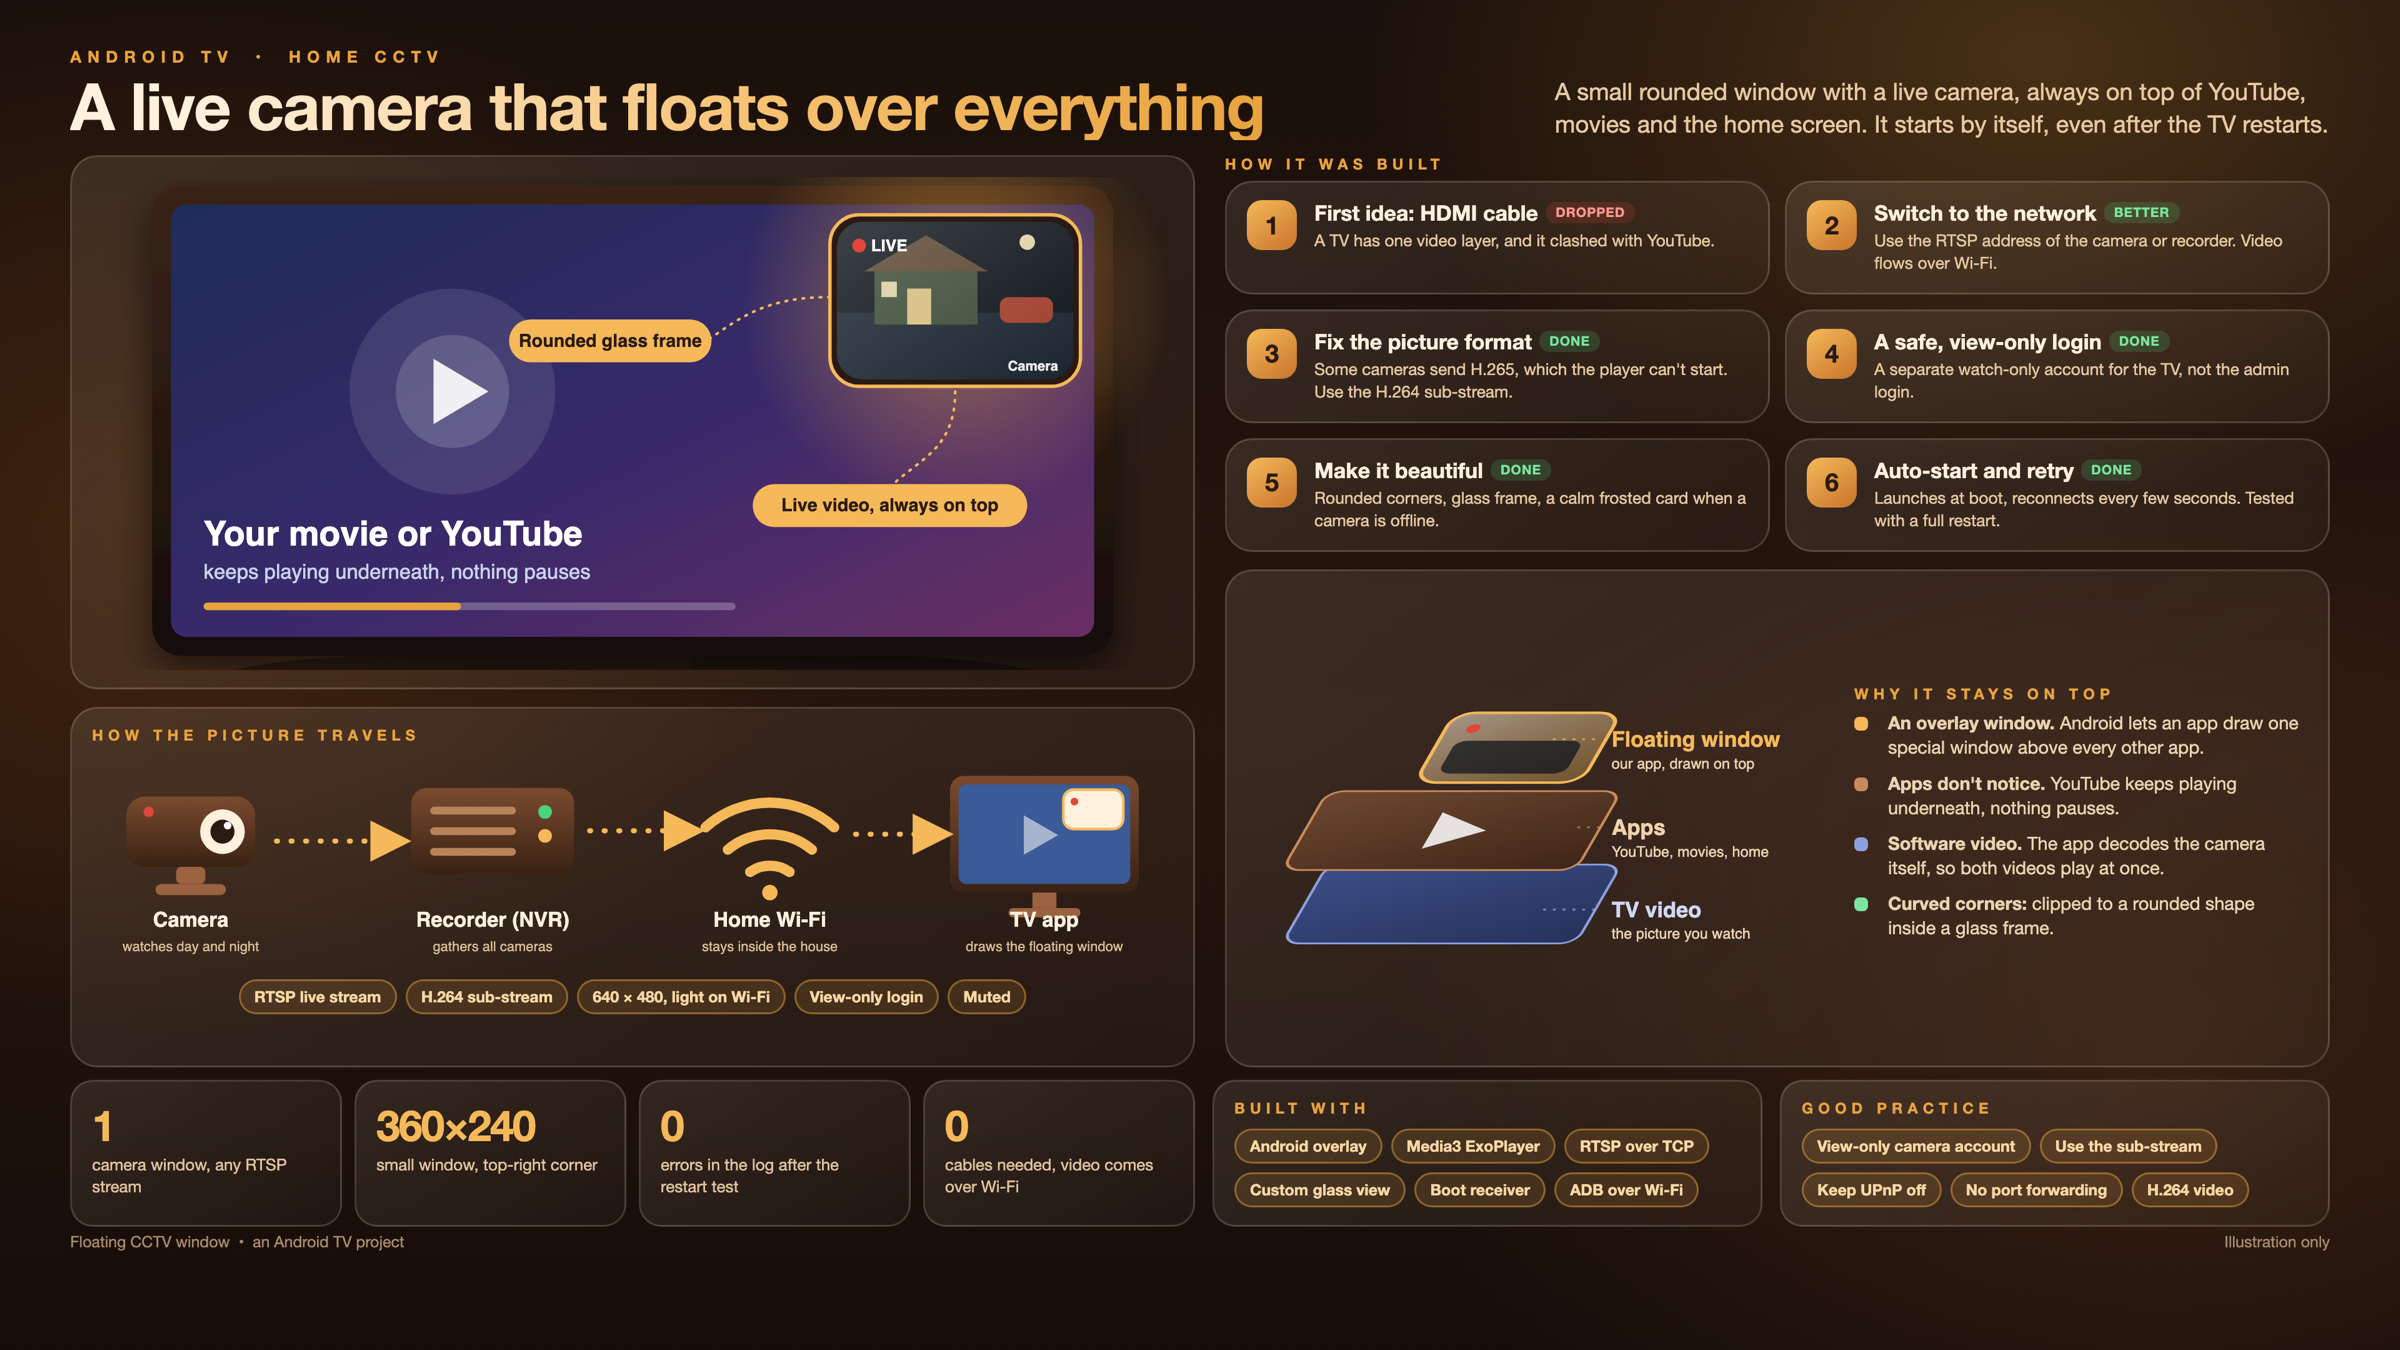
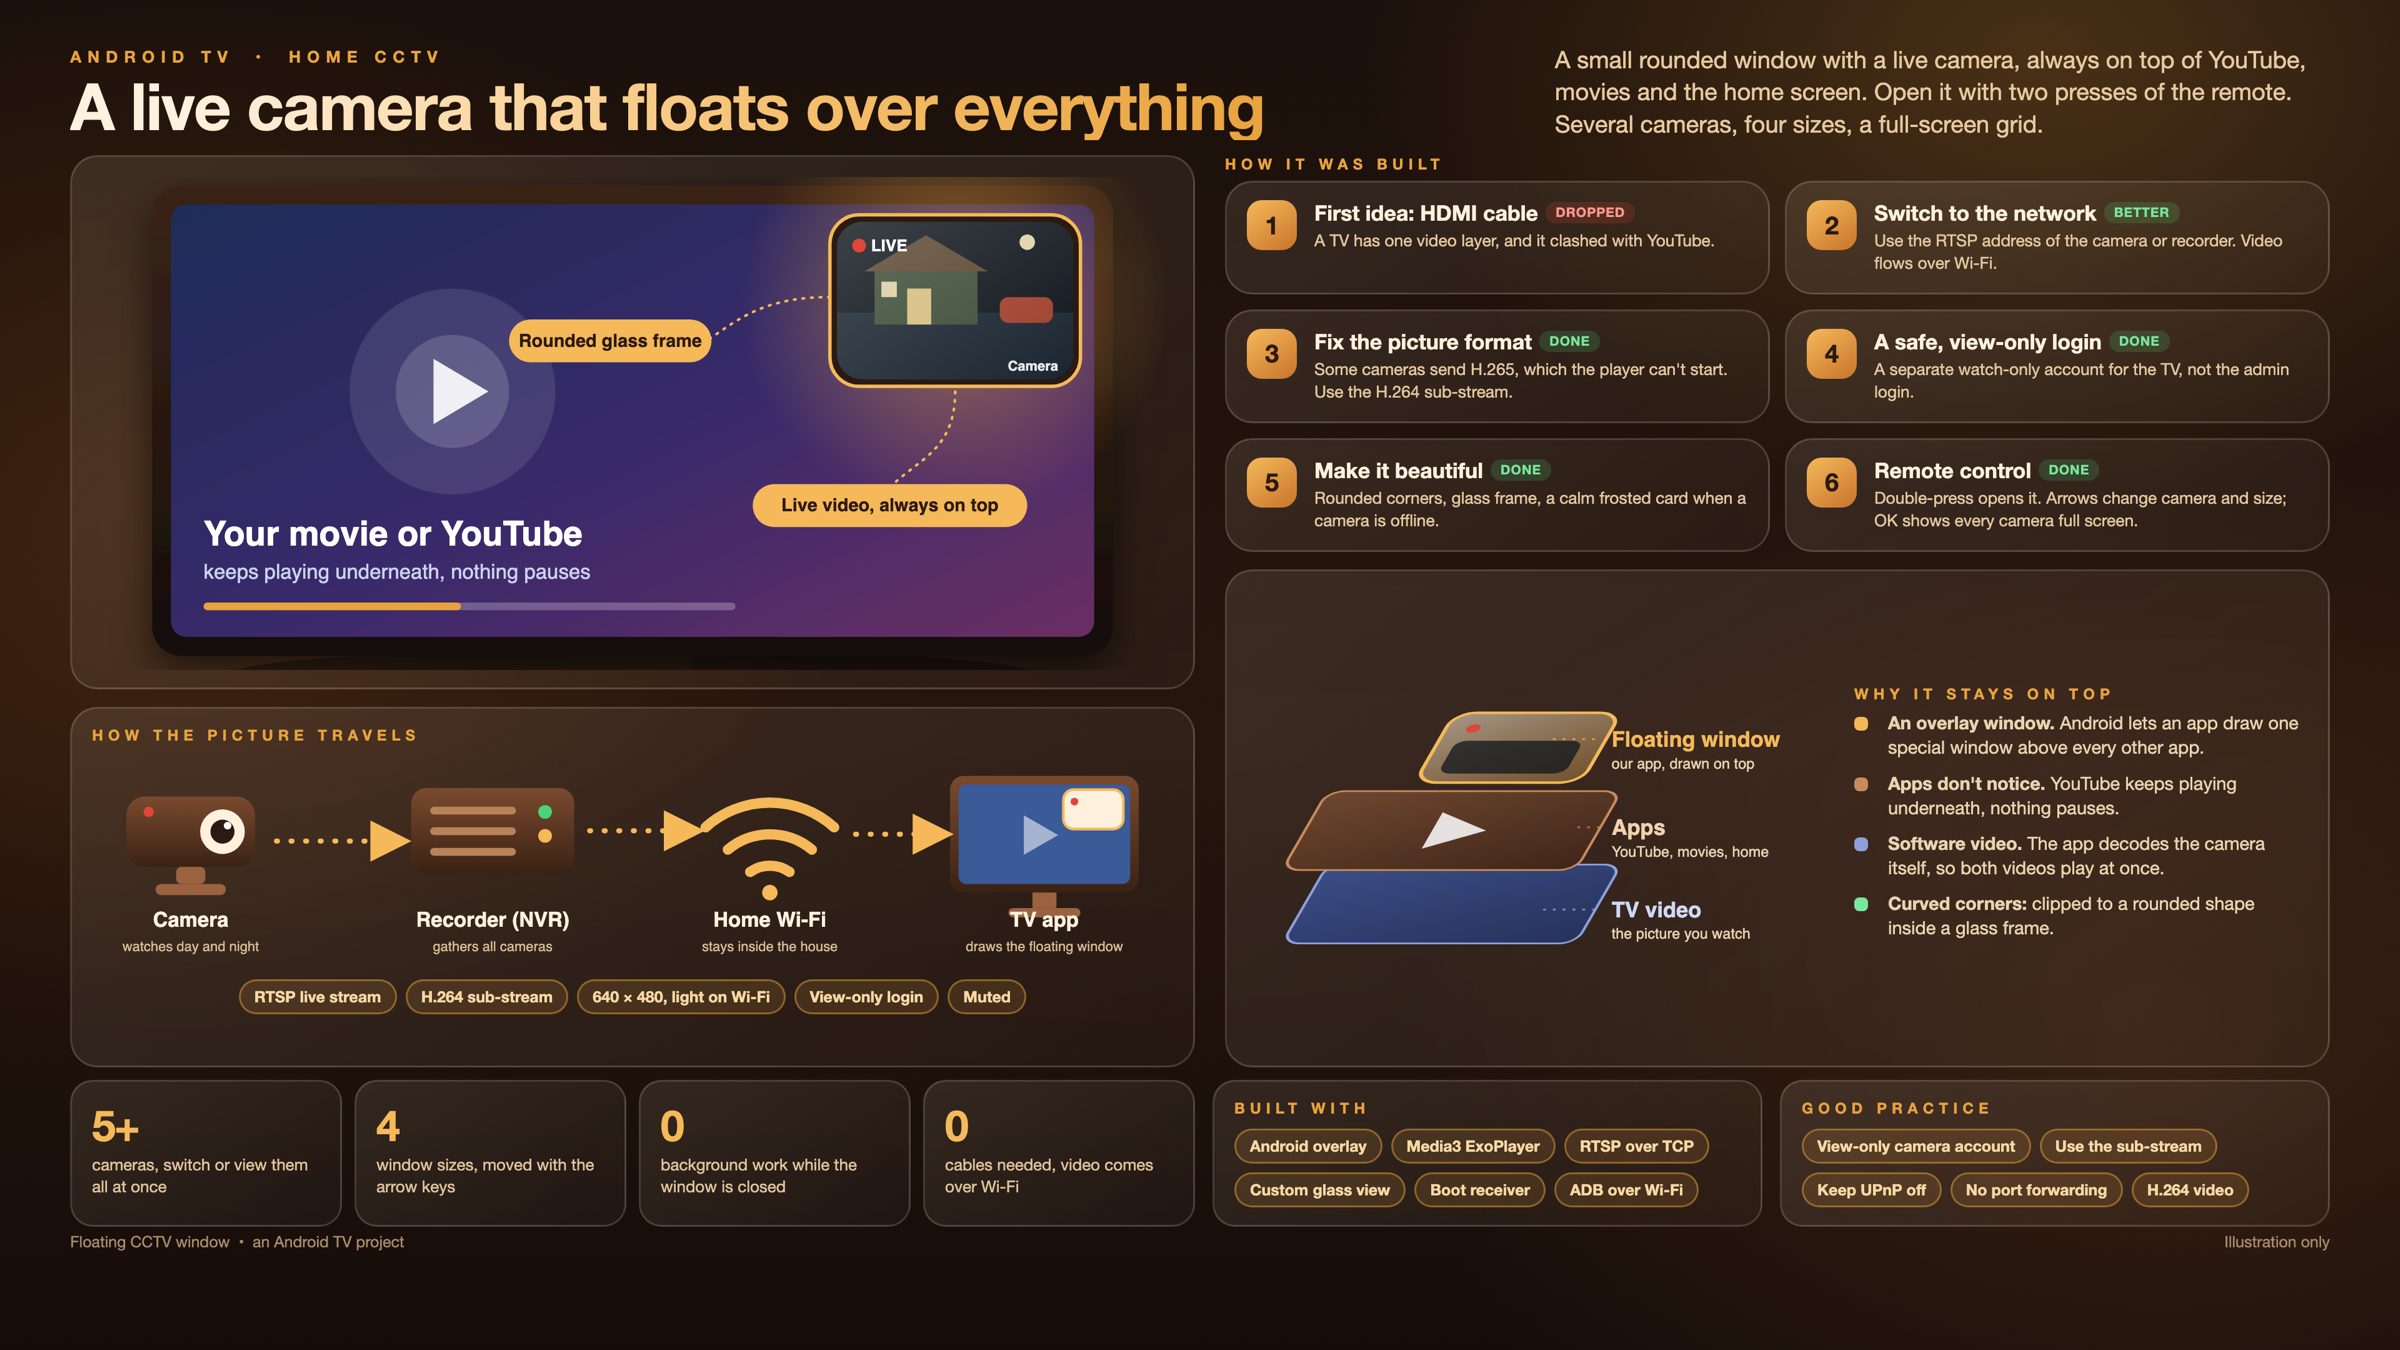
Docs: refreshed overview, remote-controls illustration, flowcharts

diff --git a/README.md b/README.md
@@ -4,6 +4,8 @@ A small, rounded **picture-in-picture camera window for Android TV**. It floats 
 
 ![Overview](docs/overview.png)
 
+![Three screens, one remote](docs/remote-controls.svg)
+
 - **Opens only when you want it**: press MENU twice on the TV remote. Nothing runs or decodes while it is closed
 - **Several cameras, four sizes, one remote**: switch camera, resize, or open a full-screen view of all cameras, all with the normal TV remote
 - Always on top, always muted, never steals focus from the app you are using
@@ -26,6 +28,19 @@ A small, rounded **picture-in-picture camera window for Android TV**. It floats 
 ```
  camera ──► recorder (NVR) ──► your home network ──► TV app ──► floating window
                                   (Wi-Fi / LAN)       (this repo)
+```
+
+```mermaid
+flowchart LR
+    CAM["IP camera"] --> NVR["Recorder (NVR)"]
+    NVR -- "RTSP over TCP,<br/>H.264 sub-stream" --> NET(("Home Wi-Fi / LAN"))
+    NET --> EXO["Media3 ExoPlayer<br/>(one per visible camera)"]
+    EXO -- "software-routed video" --> TEX["TextureView<br/>clipped to rounded corners"]
+    TEX --> GLASS["GlassView<br/>frame, label, key help"]
+    GLASS --> OV["Overlay window<br/>drawn above every app"]
+    REMOTE["TV remote"] -- "key presses" --> KEY["KeyService<br/>(accessibility service)"]
+    KEY -- "open / navigate" --> SVC["OverlayService<br/>modes and camera list"]
+    SVC --> OV
 ```
 
 1. The app asks for one video stream over **RTSP** (TCP) using [Media3 ExoPlayer](https://developer.android.com/media/media3/exoplayer).
@@ -95,6 +110,25 @@ Press **MENU twice quickly** to open (on the Mi remote, which has no Menu button
 | | OK or BACK | back to the grid |
 
 The small window gives the remote back by itself after about 15 seconds without a key, so YouTube and everything else behave normally again. Press MENU twice again to take control.
+
+```mermaid
+stateDiagram-v2
+    [*] --> Closed
+    Closed --> Small: Mi x2 (opens, takes the remote)
+    Small --> Small: Left/Right camera, Up/Down size
+    Small --> Move: Mi x1
+    Move --> Small: OK / Back
+    Small --> Grid: OK
+    Grid --> One: OK on the selected camera
+    One --> One: Left/Right next camera
+    One --> Grid: OK / Back
+    Grid --> Small: Back
+    Small --> Idle: Back, or 15 s without a key
+    Idle --> Small: Mi x2
+    Small --> Closed: Mi x2
+```
+
+`Idle` means the window stays on screen but the remote belongs to the app underneath again.
 
 ## Controls (adb, for scripts and testing)
 
